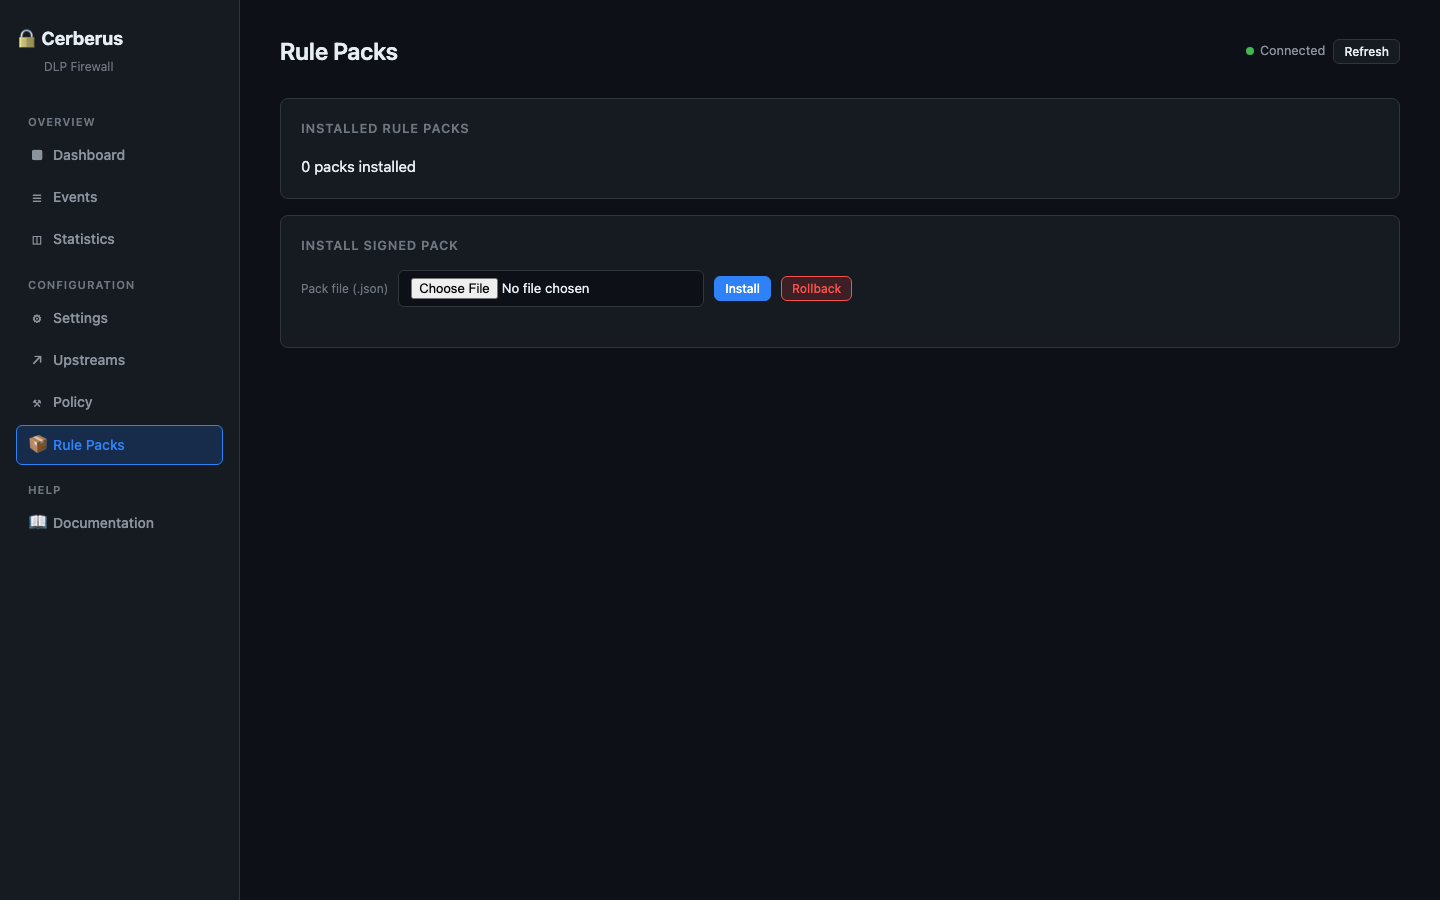
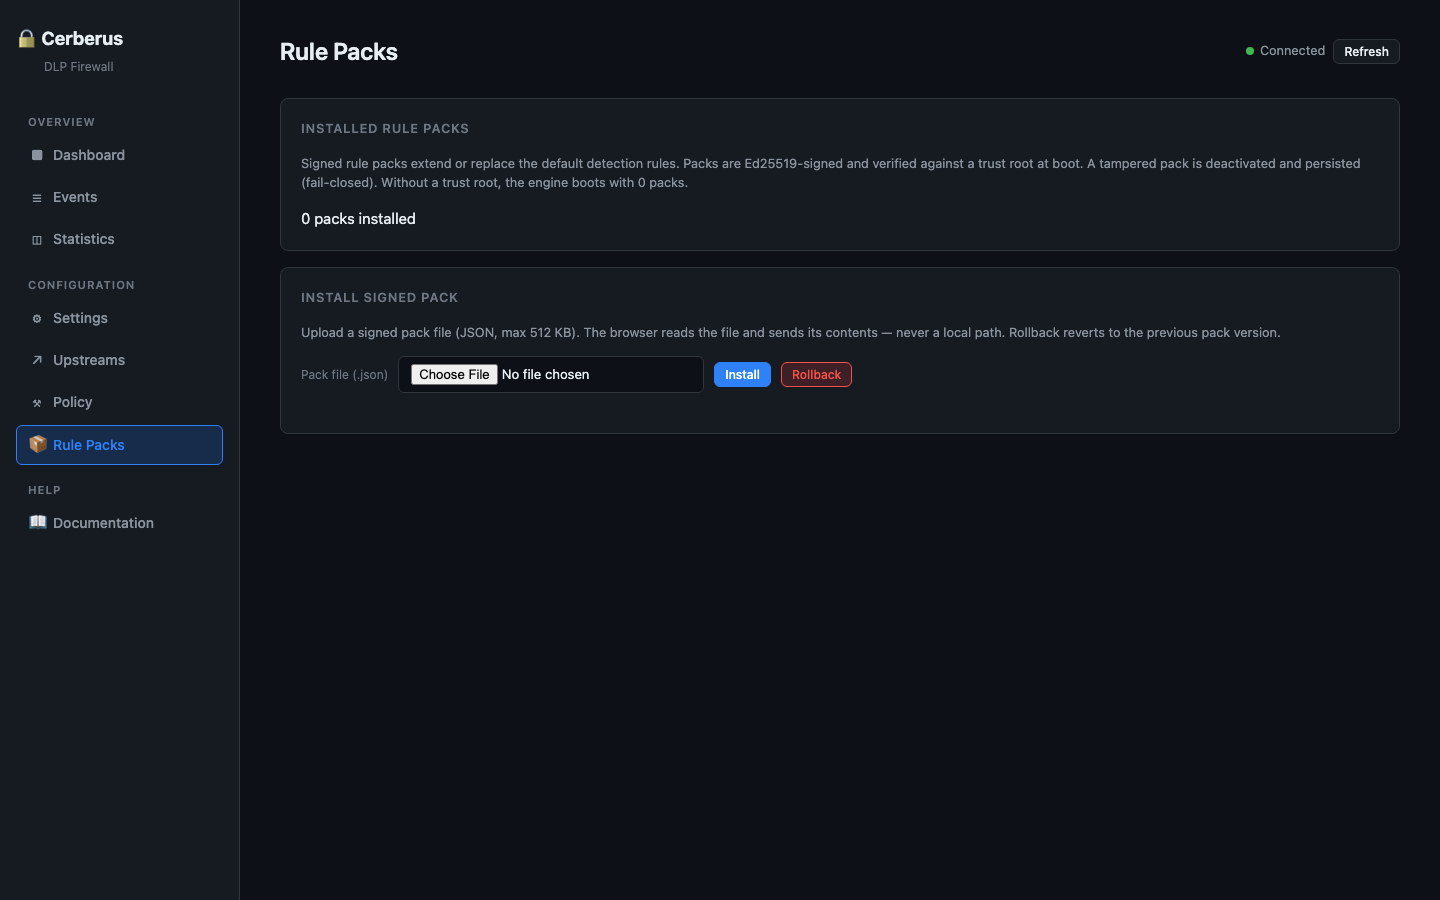
feat: add descriptions to all dashboard tabs + use selects in config
Each tab now has a description paragraph explaining what the data means
and what values are valid:

- Overview: explains stat cards and quick controls (mode/fail policy)
- Events: explains each column (timestamp, tool, provider, action, flags)
  and that raw values are never shown
- Statistics: explains what total/providers/tools/flags count and what
  the by-provider and top-flags tables show
- Config: explains that changes are hot-swapped (except listen which
  requires restart). The edit form now uses selects for fields with a
  fixed set of values:
    - mode: enforce | shadow
    - fail_policy: closed | open
    - log_level: trace | debug | info | warn | error | off
  Free-text inputs are kept only for listen (bind address), max_body_bytes
  (number), and health_path (path string).
  Each field has a hint describing what it does.
- Upstreams: the auth_header field is now a select (authorization Bearer,
  x-api-key Anthropic, api-key) instead of free text.
- Policy: the category field is now a select (secrets, pii, internal_code)
  instead of free text. Descriptions explain what each section does and
  what actions mean (block, redact, warn, allow).
- Rule Packs: description explains Ed25519 signing and the 512KB limit.

Screenshots retaken with the new content.

Changed region(s): [[0.1875, 0.1556, 0.9375, 0.4356], [0.625, 0.3422, 0.875, 0.3733], [0.2188, 0.4044, 0.4062, 0.4356]]

diff --git a/crates/cerberus-proxy/dashboard.html b/crates/cerberus-proxy/dashboard.html
@@ -406,6 +406,22 @@ input[type="password"] { width: 100%; max-width: 320px; }
 .tab-content { display: none; }
 .tab-content.active { display: block; }
 
+.tab-desc {
+  color: var(--text-muted);
+  font-size: 0.8rem;
+  line-height: 1.5;
+  margin-bottom: 14px;
+}
+.tab-desc code {
+  font-family: var(--font-mono);
+  background: var(--surface);
+  padding: 1px 5px;
+  border-radius: 4px;
+  font-size: 0.78rem;
+  color: var(--accent);
+}
+.tab-desc strong { color: var(--text); font-weight: 600; }
+
 /* ── Auth card ────────────────────────────────────────────────── */
 .auth-overlay {
   position: fixed;
@@ -611,14 +627,21 @@ input[type="password"] { width: 100%; max-width: 320px; }
 
     <!-- ── Overview tab ─────────────────────────────────────── -->
     <div class="tab-content active" id="tab-overview">
-      <div class="stat-grid" id="overview-stats"></div>
+      <div class="card">
+        <div class="card-title">Summary</div>
+        <p class="tab-desc">Real-time overview of the proxy. Stats cards show aggregate counts across all providers. Quick controls let you switch between enforce and shadow mode, and between fail-closed and fail-open, without restarting the daemon.</p>
+        <div class="stat-grid" id="overview-stats"></div>
+      </div>
 
       <div class="card">
         <div class="card-title">Quick Controls</div>
         <div class="toggle-row">
           <div>
             <div class="toggle-label">Operation Mode</div>
-            <div class="toggle-desc">Enforce blocks/redacts; Shadow logs only</div>
+            <div class="toggle-desc">
+              <strong>Enforce:</strong> blocks and redacts requests containing secrets/PII.
+              <strong>Shadow:</strong> logs findings without blocking (for testing).
+            </div>
           </div>
           <div class="toggle-group" id="mode-toggle">
             <button class="toggle-opt active" data-mode="enforce" type="button">Enforce</button>
@@ -628,7 +651,10 @@ input[type="password"] { width: 100%; max-width: 320px; }
         <div class="toggle-row">
           <div>
             <div class="toggle-label">Fail Policy</div>
-            <div class="toggle-desc">Closed rejects on engine error; Open lets traffic pass</div>
+            <div class="toggle-desc">
+              <strong>Closed:</strong> if the detection engine fails, the request is rejected (no leak).
+              <strong>Open:</strong> if the engine fails, the request passes through (availability over safety).
+            </div>
           </div>
           <div class="toggle-group" id="failpolicy-toggle">
             <button class="toggle-opt active" data-failpolicy="closed" type="button">Closed</button>
@@ -638,7 +664,8 @@ input[type="password"] { width: 100%; max-width: 320px; }
       </div>
 
       <div class="card">
-        <div class="card-title">Recent Events</div>
+        <div class="card-title">Recent Events (last 10)</div>
+        <p class="tab-desc">Audit events recorded by the proxy. Each event shows the timestamp, provider, action taken, and detection flags. Raw secret values are never stored or displayed — only SHA-256 hashes.</p>
         <div id="overview-events"><div class="loading">Loading...</div></div>
       </div>
     </div>
@@ -647,6 +674,7 @@ input[type="password"] { width: 100%; max-width: 320px; }
     <div class="tab-content" id="tab-events">
       <div class="card">
         <div class="card-title">Event Filter</div>
+        <p class="tab-desc">Filter audit events by provider. The provider field is derived from the upstream path (e.g. <code>/openai/</code> maps to <code>openai</code>).</p>
         <div class="form-row">
           <label>Provider</label>
           <select id="provider-filter"></select>
@@ -656,19 +684,26 @@ input[type="password"] { width: 100%; max-width: 320px; }
       </div>
       <div class="card">
         <div class="card-title">Audit Events</div>
+        <p class="tab-desc">Each row is one scanned request. Columns: <strong>Timestamp</strong> (when the event was recorded), <strong>Tool</strong> (the agent or client that sent the request), <strong>Provider</strong> (the upstream LLM API), <strong>Action</strong> (what the proxy did), <strong>Flags</strong> (which detection rules fired). Raw values are never shown — only flags and hashes.</p>
         <div id="events-table"><div class="loading">Loading...</div></div>
       </div>
     </div>
 
     <!-- ── Statistics tab ───────────────────────────────────── -->
     <div class="tab-content" id="tab-stats">
-      <div class="stat-grid" id="stats-cards"></div>
+      <div class="card">
+        <div class="card-title">Aggregate Statistics</div>
+        <p class="tab-desc">Counts across all audit events. <strong>Total Events</strong> is the number of scanned requests. <strong>Providers</strong> is the number of distinct upstreams. <strong>Tools</strong> is the number of distinct client agents. <strong>Flags</strong> is the number of distinct detection rules that fired.</p>
+        <div class="stat-grid" id="stats-cards"></div>
+      </div>
       <div class="card">
         <div class="card-title">By Provider</div>
+        <p class="tab-desc">Event count broken down by upstream provider, with the action distribution (block / redact / warn / allow) for each.</p>
         <div id="stats-provider"><div class="loading">Loading...</div></div>
       </div>
       <div class="card">
         <div class="card-title">Top Flags</div>
+        <p class="tab-desc">The most frequently triggered detection rules across all events. Each flag corresponds to a rule in the active pack (e.g. <code>secret.openai_api_key</code>, <code>pii.email_address</code>).</p>
         <div id="stats-flags"><div class="loading">Loading...</div></div>
       </div>
     </div>
@@ -677,10 +712,12 @@ input[type="password"] { width: 100%; max-width: 320px; }
     <div class="tab-content" id="tab-config">
       <div class="card">
         <div class="card-title">Current Configuration</div>
+        <p class="tab-desc">The live configuration loaded by the daemon. Changes via the form below are applied immediately (hot-swap) unless <code>listen</code> changes, which requires a restart.</p>
         <div id="config-view"><div class="loading">Loading...</div></div>
       </div>
       <div class="card">
         <div class="card-title">Edit Configuration</div>
+        <p class="tab-desc">Each field accepts specific values. Fields with a dropdown (<code>select</code>) only accept the listed values — free text is not allowed to prevent typos.</p>
         <div id="config-edit"></div>
         <div class="msg" id="config-msg"></div>
       </div>
@@ -690,14 +727,25 @@ input[type="password"] { width: 100%; max-width: 320px; }
     <div class="tab-content" id="tab-upstreams">
       <div class="card">
         <div class="card-title">Configured Upstreams</div>
+        <p class="tab-desc">Each upstream is a provider backend. The proxy matches the request path prefix (e.g. <code>/openai/</code>) to the upstream name and forwards to its URL.</p>
         <div id="upstreams-view"><div class="loading">Loading...</div></div>
       </div>
       <div class="card">
         <div class="card-title">Add / Update Upstream</div>
+        <p class="tab-desc">
+          <strong>Name:</strong> identifier used in the request path (e.g. <code>openai</code> → <code>/openai/*</code>).
+          <strong>URL:</strong> the provider's base URL (must start with <code>https://</code>).
+          <strong>Auth header:</strong> which HTTP header carries the API key — most providers use <code>authorization</code> (Bearer), but some like Anthropic use <code>x-api-key</code>.
+        </p>
         <div class="form-row">
           <label>Name</label><input type="text" id="up-name" placeholder="openai">
           <label>URL</label><input type="text" id="up-url" placeholder="https://api.openai.com">
-          <label>Auth header</label><input type="text" id="up-auth" placeholder="authorization">
+          <label>Auth header</label>
+          <select id="up-auth">
+            <option value="authorization">authorization (Bearer)</option>
+            <option value="x-api-key">x-api-key (Anthropic)</option>
+            <option value="api-key">api-key</option>
+          </select>
           <button class="primary sm" id="btn-add-upstream" type="button">Save</button>
         </div>
         <div class="msg" id="upstream-msg"></div>
@@ -708,18 +756,25 @@ input[type="password"] { width: 100%; max-width: 320px; }
     <div class="tab-content" id="tab-policy">
       <div class="card">
         <div class="card-title">Category Actions</div>
+        <p class="tab-desc">Override the default action for an entire category. Categories are: <code>secrets</code> (API keys, tokens, PEM keys), <code>pii</code> (emails, phone numbers), <code>internal_code</code> (internal references). The action can be <code>block</code> (reject the request), <code>redact</code> (replace the value), <code>warn</code> (log but pass through), or <code>allow</code> (skip detection).</p>
         <div id="categories-view"><div class="loading">Loading...</div></div>
       </div>
       <div class="card">
         <div class="card-title">Set Category Action</div>
         <div class="form-row">
-          <label>Category</label><input type="text" id="cat-name" placeholder="secrets">
+          <label>Category</label>
+          <select id="cat-name">
+            <option value="secrets">secrets</option>
+            <option value="pii">pii</option>
+            <option value="internal_code">internal_code</option>
+          </select>
           <label>Action</label><select id="cat-action"></select>
           <button class="primary sm" id="btn-set-category" type="button">Apply</button>
         </div>
       </div>
       <div class="card">
         <div class="card-title">Rule Overrides</div>
+        <p class="tab-desc">Override the action for a specific rule flag (e.g. <code>secret.openai_api_key</code>). A rule override takes precedence over the category action. Setting action to <code>null</code> (Remove) reverts to the category or rule default.</p>
         <div id="rules-view"><div class="loading">Loading...</div></div>
       </div>
       <div class="card">
@@ -732,6 +787,7 @@ input[type="password"] { width: 100%; max-width: 320px; }
       </div>
       <div class="card">
         <div class="card-title">Allowlist (false positive triage)</div>
+        <p class="tab-desc">Values in the allowlist are never flagged, even if they match a detection rule. Use this to suppress known-safe values (e.g. a test API key that appears in your codebase). Values are hashed before storage.</p>
         <div id="allowlist-view"><div class="loading">Loading...</div></div>
       </div>
       <div class="card">
@@ -748,10 +804,12 @@ input[type="password"] { width: 100%; max-width: 320px; }
     <div class="tab-content" id="tab-packs">
       <div class="card">
         <div class="card-title">Installed Rule Packs</div>
+        <p class="tab-desc">Signed rule packs extend or replace the default detection rules. Packs are Ed25519-signed and verified against a trust root at boot. A tampered pack is deactivated and persisted (fail-closed). Without a trust root, the engine boots with 0 packs.</p>
         <div id="packs-view"><div class="loading">Loading...</div></div>
       </div>
       <div class="card">
         <div class="card-title">Install Signed Pack</div>
+        <p class="tab-desc">Upload a signed pack file (JSON, max 512 KB). The browser reads the file and sends its contents — never a local path. Rollback reverts to the previous pack version.</p>
         <div class="form-row">
           <label for="pack-file">Pack file (.json)</label>
           <input type="file" id="pack-file" accept=".json,application/json">
@@ -1272,25 +1330,84 @@ function renderConfigTable(cfg) {
   tbody.appendChild(trA);
   table.appendChild(tbody); box.appendChild(table);
 
-  // Edit form
-  const edit = document.getElementById('config-edit');
+  // Edit form — use selects for fields with a fixed set of values,
+  // text inputs only for free-form fields (listen, health_path).
   if (edit) {
     edit.replaceChildren();
-    const formRows = [
-      { id: 'cfg-listen', label: 'listen', value: cfg.listen || '' },
-      { id: 'cfg-mode', label: 'mode', value: cfg.mode || '' },
-      { id: 'cfg-fail_policy', label: 'fail_policy', value: cfg.fail_policy || '' },
-      { id: 'cfg-max_body_bytes', label: 'max_body_bytes', value: cfg.max_body_bytes || '' },
-      { id: 'cfg-health_path', label: 'health_path', value: cfg.health_path || '' },
-      { id: 'cfg-log_level', label: 'log_level', value: cfg.log_level || '' }
-    ];
-    for (const f of formRows) {
-      const row = el('div', 'form-row');
-      const lab = el('label'); lab.textContent = f.label;
-      const inp = el('input'); inp.type = 'text'; inp.id = f.id; inp.value = String(f.value);
-      row.appendChild(lab); row.appendChild(inp); edit.appendChild(row);
+
+    // listen: free text (bind address)
+    const listenRow = el('div', 'form-row');
+    const listenLab = el('label'); listenLab.textContent = 'listen';
+    const listenInp = el('input'); listenInp.type = 'text'; listenInp.id = 'cfg-listen';
+    listenInp.value = cfg.listen || '';
+    listenRow.appendChild(listenLab); listenRow.appendChild(listenInp);
+    const listenHint = el('div', 'muted'); listenHint.textContent = 'Bind address (e.g. 127.0.0.1:8787). Changing this requires a restart.';
+    listenRow.appendChild(listenHint);
+    edit.appendChild(listenRow);
+
+    // mode: select
+    const modeRow = el('div', 'form-row');
+    const modeLab = el('label'); modeLab.textContent = 'mode';
+    const modeSel = el('select'); modeSel.id = 'cfg-mode';
+    for (const v of ['enforce', 'shadow']) {
+      const opt = el('option'); opt.value = v; opt.textContent = v;
+      if (v === cfg.mode) opt.selected = true;
+      modeSel.appendChild(opt);
     }
-    const btn = el('button', 'primary sm'); btn.textContent = 'Save changes';
+    modeRow.appendChild(modeLab); modeRow.appendChild(modeSel);
+    const modeHint = el('div', 'muted'); modeHint.textContent = 'enforce: block/redact. shadow: log only.';
+    modeRow.appendChild(modeHint);
+    edit.appendChild(modeRow);
+
+    // fail_policy: select
+    const fpRow = el('div', 'form-row');
+    const fpLab = el('label'); fpLab.textContent = 'fail_policy';
+    const fpSel = el('select'); fpSel.id = 'cfg-fail_policy';
+    for (const v of ['closed', 'open']) {
+      const opt = el('option'); opt.value = v; opt.textContent = v;
+      if (v === cfg.fail_policy) opt.selected = true;
+      fpSel.appendChild(opt);
+    }
+    fpRow.appendChild(fpLab); fpRow.appendChild(fpSel);
+    const fpHint = el('div', 'muted'); fpHint.textContent = 'closed: reject on engine failure. open: pass through.';
+    fpRow.appendChild(fpHint);
+    edit.appendChild(fpRow);
+
+    // max_body_bytes: number input
+    const mbRow = el('div', 'form-row');
+    const mbLab = el('label'); mbLab.textContent = 'max_body_bytes';
+    const mbInp = el('input'); mbInp.type = 'number'; mbInp.id = 'cfg-max_body_bytes';
+    mbInp.value = cfg.max_body_bytes != null ? String(cfg.max_body_bytes) : '';
+    mbRow.appendChild(mbLab); mbRow.appendChild(mbInp);
+    const mbHint = el('div', 'muted'); mbHint.textContent = 'Maximum request body size in bytes (default: 67108864 = 64 MiB).';
+    mbRow.appendChild(mbHint);
+    edit.appendChild(mbRow);
+
+    // health_path: free text
+    const hpRow = el('div', 'form-row');
+    const hpLab = el('label'); hpLab.textContent = 'health_path';
+    const hpInp = el('input'); hpInp.type = 'text'; hpInp.id = 'cfg-health_path';
+    hpInp.value = cfg.health_path || '';
+    hpRow.appendChild(hpLab); hpRow.appendChild(hpInp);
+    const hpHint = el('div', 'muted'); hpHint.textContent = 'Path for the health check endpoint (default: /health).';
+    hpRow.appendChild(hpHint);
+    edit.appendChild(hpRow);
+
+    // log_level: select
+    const llRow = el('div', 'form-row');
+    const llLab = el('label'); llLab.textContent = 'log_level';
+    const llSel = el('select'); llSel.id = 'cfg-log_level';
+    for (const v of ['trace', 'debug', 'info', 'warn', 'error', 'off']) {
+      const opt = el('option'); opt.value = v; opt.textContent = v;
+      if (v === cfg.log_level) opt.selected = true;
+      llSel.appendChild(opt);
+    }
+    llRow.appendChild(llLab); llRow.appendChild(llSel);
+    const llHint = el('div', 'muted'); llHint.textContent = 'Log verbosity (default: info).';
+    llRow.appendChild(llHint);
+    edit.appendChild(llRow);
+
+    const btn = el('button', 'primary'); btn.textContent = 'Save changes';
     btn.addEventListener('click', saveConfig);
     edit.appendChild(btn);
   }
